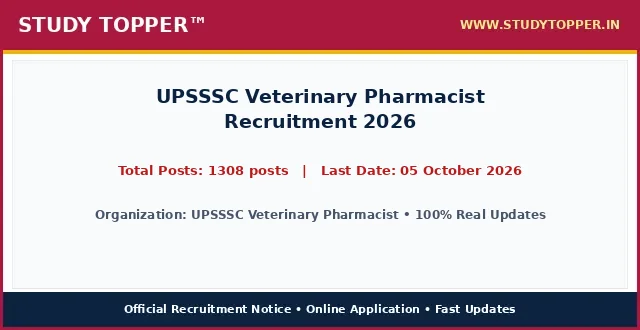
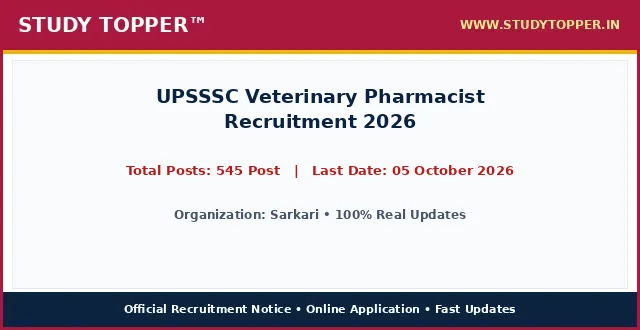
chore(lifecycle): daily auto-sort vacancies and update active dates

Changed region(s): [[0.1875, 0.4848, 0.8125, 0.5455], [0.125, 0.6364, 0.875, 0.6667]]

diff --git a/pages/upsssc-veterinary-pharmacist-2026.html b/pages/upsssc-veterinary-pharmacist-2026.html
@@ -987,12 +987,12 @@ ul.wp-block-latest-posts a:hover {
 <main class="site-main" id="main">
 <div class="gb-container gb-container-b39c368c">
 <h1 class="gb-headline gb-headline-e52a0102 gb-headline-text" style="font-size: 22px; font-weight: 700; color: #0000cd; text-align: left; margin: 8px 0 4px 0; line-height: 1.3; width: 100%; font-family: '-apple-system, BlinkMacSystemFont, 'Segoe UI', Roboto, 'Helvetica Neue', Arial, sans-serif', Times, serif, Hind, sans-serif;">UPSSSC Veterinary Pharmacist Recruitment 2026</h1>
-<div class="gb-container gb-container-659bd175"><p style="color: #cd0808; font-weight: 700; font-size: 15px; margin: 2px 0 7px 0; text-align: left; font-family: '-apple-system, BlinkMacSystemFont, 'Segoe UI', Roboto, 'Helvetica Neue', Arial, sans-serif', Times, serif, Hind, sans-serif;">Post Date: August 21, 2026 07:48 PM</p></div>
-<p class="gb-headline gb-headline-550ae316 short_Details gb-headline-text" style="width: 100%; max-width: 100%; font-size: 16.8px; line-height: 1.55; color: #000000; text-align: justify; text-justify: inter-word; margin: 8px 0 14px 0; display: block; font-family: '-apple-system, BlinkMacSystemFont, 'Segoe UI', Roboto, 'Helvetica Neue', Arial, sans-serif', Times, serif, Hind, sans-serif;"><strong style="color: #0000cd;">UPSSSC Veterinary Pharmacist</strong> has officially published the recruitment notice <strong style="color: #cd0808;">UPSSSC Veterinary Pharmacist Recruitment 2026</strong> under notification number Official Advt 2026. Online applications are invited for 1308 posts across multiple departments and cadre positions. Interested candidates possessing the requisite educational qualifications and falling between 18 Years to 40 Years can complete their online registration before the application deadline of 05 October 2026. Applicants should read the eligibility criteria, category reservation rules, and exam scheme thoroughly before submitting applications.</p>
+<div class="gb-container gb-container-659bd175"><p style="color: #cd0808; font-weight: 700; font-size: 15px; margin: 2px 0 7px 0; text-align: left; font-family: '-apple-system, BlinkMacSystemFont, 'Segoe UI', Roboto, 'Helvetica Neue', Arial, sans-serif', Times, serif, Hind, sans-serif;">Post Date: August 22, 2026 11:55 AM</p></div>
+<p class="gb-headline gb-headline-550ae316 short_Details gb-headline-text" style="width: 100%; max-width: 100%; font-size: 16.8px; line-height: 1.55; color: #000000; text-align: justify; text-justify: inter-word; margin: 8px 0 14px 0; display: block; font-family: '-apple-system, BlinkMacSystemFont, 'Segoe UI', Roboto, 'Helvetica Neue', Arial, sans-serif', Times, serif, Hind, sans-serif;"><strong style="color: #0000cd;">Sarkari</strong> has officially published the recruitment notice <strong style="color: #cd0808;">UPSSSC Veterinary Pharmacist Recruitment 2026</strong> under notification number Official Advt 2026. Online applications are invited for 545 Post across multiple departments and cadre positions. Interested candidates possessing the requisite educational qualifications and falling between 18 Years to 40 Years can complete their online registration before the application deadline of 05 October 2026. Applicants should read the eligibility criteria, category reservation rules, and exam scheme thoroughly before submitting applications.</p>
 <div class="gb-container gb-container-9849916c"><div class="social-buttons-compact" style="display: flex; justify-content: flex-start; align-items: center; gap: 10px; margin: 10px 0 16px 0; width: 100%;"><a class="social-btn-compact wa" href="https://whatsapp.com/channel/0029Va9xyz" rel="noopener" style="background-color: #00d084; color: #ffffff; padding: 10px 18px; border-radius: 4px; text-decoration: none; font-weight: bold; font-size: 15.5px; display: inline-flex; align-items: center; justify-content: center; height: auto;" target="_blank">WhatsApp</a><a class="social-btn-compact tg" href="https://t.me/studytopperofficial" rel="noopener" style="background-color: #0088cc; color: #ffffff; padding: 10px 18px; border-radius: 4px; text-decoration: none; font-weight: bold; font-size: 15.5px; display: inline-flex; align-items: center; justify-content: center; height: auto;" target="_blank">Telegram</a></div></div>
 <div class="gb-container gb-container-f58e6ca1" style="border: 2px solid #5b032f; border-radius: 4px; overflow: hidden; margin: 15px 0 20px 0; background-color: #ffffff; width: 100%; box-sizing: border-box;">
 <h2 class="gb-headline gb-headline-2ca5a791 gb-headline-text" style="font-size: 16px; font-weight: 700; text-align: center; color: #ef0303; line-height: 1.3; padding: 6px 4px; margin: 0; background: #ffffff; font-family: '-apple-system, BlinkMacSystemFont, 'Segoe UI', Roboto, 'Helvetica Neue', Arial, sans-serif', Times, serif, Hind, sans-serif;">UPSSSC Veterinary Pharmacist Recruitment 2026 &ndash; Latest Details &amp; Updates</h2>
-<h3 class="gb-headline gb-headline-7d5f86e8 gb-headline-text" style="font-size: 16px; font-weight: 600; text-align: center; color: #009703; line-height: 1.25; margin: 0; padding: 2px 4px 6px 4px; background: #ffffff; font-family: '-apple-system, BlinkMacSystemFont, 'Segoe UI', Roboto, 'Helvetica Neue', Arial, sans-serif', Times, serif, Hind, sans-serif;">UPSSSC Veterinary Pharmacist : Details &amp; Summary</h3>
+<h3 class="gb-headline gb-headline-7d5f86e8 gb-headline-text" style="font-size: 16px; font-weight: 600; text-align: center; color: #009703; line-height: 1.25; margin: 0; padding: 2px 4px 6px 4px; background: #ffffff; font-family: '-apple-system, BlinkMacSystemFont, 'Segoe UI', Roboto, 'Helvetica Neue', Arial, sans-serif', Times, serif, Hind, sans-serif;">Sarkari : Details &amp; Summary</h3>
 <p class="gb-headline gb-headline-79adf169 gb-headline-text" style="margin: 0 0 6px 0; font-family: '-apple-system, BlinkMacSystemFont, 'Segoe UI', Roboto, 'Helvetica Neue', Arial, sans-serif', Times, serif, Hind, sans-serif; text-align: center; font-size: 18px; font-weight: 700;"><a href="/" style="color: #0000ff; text-decoration: underline;">StudyTopper.in</a></p>
 
 <style id="st-post-boxes-responsive-css">
@@ -1025,7 +1025,7 @@ ul.wp-block-latest-posts a:hover {
     <div style="background-color: #5b032f; color: #ffffff; padding: 8px 10px; font-size: 20px; font-weight: 700; text-align: center; font-family: '-apple-system, BlinkMacSystemFont, 'Segoe UI', Roboto, 'Helvetica Neue', Arial, sans-serif', Times, serif, Hind, sans-serif;">Important Dates</div>
     <div style="padding: 12px 14px; background-color: #ffffff;">
       <ul style="padding-left: 20px; margin: 0; list-style-type: disc; text-align: left; font-size: 14pt; line-height: 1.6; font-family: '-apple-system, BlinkMacSystemFont, 'Segoe UI', Roboto, 'Helvetica Neue', Arial, sans-serif', Times, serif, Hind, sans-serif;">
-        <li><span style="font-size: 14pt;">Online Apply Start Date : <strong>14 September 2026</strong></span></li><li><span style="font-size: 14pt;">Online Apply Last Date : <span style="color: #ff0000;"><strong>05 October 2026</strong></span></span></li><li><span style="font-size: 14pt;">Fee Payment Last Date : <span style="color: #ff0000;"><strong>05 October 2026</strong></span></span></li><li><span style="font-size: 14pt;">Correction Last Date : <span style="color: #ff0000;"><strong>12 October 2026</strong></span></span></li><li><span style="font-size: 14pt;">Exam Date : <strong>Notify Later</strong></span></li><li><span style="font-size: 14pt;">Admit Card Available : <strong>Before Exam</strong></span></li>
+        
       </ul>
     </div>
   </div>
@@ -1034,7 +1034,7 @@ ul.wp-block-latest-posts a:hover {
     <div style="background-color: #5b032f; color: #ffffff; padding: 8px 10px; font-size: 20px; font-weight: 700; text-align: center; font-family: '-apple-system, BlinkMacSystemFont, 'Segoe UI', Roboto, 'Helvetica Neue', Arial, sans-serif', Times, serif, Hind, sans-serif;">Application Fee</div>
     <div style="padding: 12px 14px; background-color: #ffffff;">
       <ul style="padding-left: 20px; margin: 0; list-style-type: disc; text-align: left; font-size: 14pt; line-height: 1.6; font-family: '-apple-system, BlinkMacSystemFont, 'Segoe UI', Roboto, 'Helvetica Neue', Arial, sans-serif', Times, serif, Hind, sans-serif;">
-        <li><span style="font-size: 14pt;">General, OBC, EWS : <strong>₹ 25/-</strong></span></li><li><span style="font-size: 14pt;">SC, ST : <strong>₹ 25/-</strong></span></li><li><span style="font-size: 14pt;">PH Candidates : <strong>₹ 25/-</strong></span></li><li><span style="font-size: 14pt;">Payment Mode (Online) : <strong>You can make the payment using the following methods: Debit Card Credit Card Internet Banking IMPS Cash Card / Mobile Wallet</strong></span></li><li><span style="font-size: 14pt;">Candidates must have UPSSSC PET + Intermediate (10+2) with Biology from the UP Board or an equivalent recognized examination. They must also possess a 2 : <strong>year 3-month Diploma in Veterinary Pharmacy from a recognized university/institution and be registered with the competent council/institution, wherever applicable. Knowledge of Hindi in Devanagari script is also required.</strong></span></li>
+        <li><span style="font-size: 14pt;">Bihar Police BPSSC Sub Inspector SI Prohibition Result 2026 Advt. No. : <strong>03/2026</strong></span></li><li><span style="font-size: 14pt;">UP Scholarship Online Form 2026 : <strong>2027</strong></span></li>
       </ul>
       <div style="margin-top: 10px; font-size: 14pt; line-height: 1.5; color: #000000; border-top: 1px dashed #ccc; padding-top: 8px; font-family: '-apple-system, BlinkMacSystemFont, 'Segoe UI', Roboto, 'Helvetica Neue', Arial, sans-serif', Times, serif, Hind, sans-serif;">
         <strong>Mode of Payment / Access:</strong> Online via Net Banking, Debit Card, Credit Card, UPI or Free Candidate Portal.
@@ -1047,10 +1047,10 @@ ul.wp-block-latest-posts a:hover {
 <div class="st-grid-row" style="display: flex; flex-wrap: wrap; width: 100%; border-top: 2px solid #5b032f; margin: 0; padding: 0; box-sizing: border-box;">
   <!-- Left Col: Age Limits -->
   <div class="st-col-half st-col-border-right" style="box-sizing: border-box; vertical-align: top;">
-    <div style="background-color: #046132; color: #ffffff; padding: 8px 10px; font-size: 17px; font-weight: 700; text-align: center; font-family: '-apple-system, BlinkMacSystemFont, 'Segoe UI', Roboto, 'Helvetica Neue', Arial, sans-serif', Times, serif, Hind, sans-serif;">UPSSSC Veterinary Pharmacist : Age Limits As On 01 August 2026</div>
+    <div style="background-color: #046132; color: #ffffff; padding: 8px 10px; font-size: 17px; font-weight: 700; text-align: center; font-family: '-apple-system, BlinkMacSystemFont, 'Segoe UI', Roboto, 'Helvetica Neue', Arial, sans-serif', Times, serif, Hind, sans-serif;">Sarkari : Age Limits As On 01 August 2026</div>
     <div style="padding: 12px 14px; background-color: #ffffff;">
       <ul style="padding-left: 20px; margin: 0; list-style-type: disc; text-align: left; font-size: 14pt; line-height: 1.6; font-family: '-apple-system, BlinkMacSystemFont, 'Segoe UI', Roboto, 'Helvetica Neue', Arial, sans-serif', Times, serif, Hind, sans-serif;">
-        <li><span style="font-size: 14pt;">For Minimum Age : <strong>18 Years</strong></span></li><li><span style="font-size: 14pt;">For Maximum Age : <strong>40 Years</strong></span></li>
+        
       </ul>
     </div>
   </div>
@@ -1058,7 +1058,7 @@ ul.wp-block-latest-posts a:hover {
   <div class="st-col-half" style="box-sizing: border-box; vertical-align: top;">
     <div style="background-color: #f53c00; color: #ffffff; padding: 8px 10px; font-size: 20px; font-weight: 700; text-align: center; font-family: '-apple-system, BlinkMacSystemFont, 'Segoe UI', Roboto, 'Helvetica Neue', Arial, sans-serif', Times, serif, Hind, sans-serif;">Total Post</div>
     <div style="padding: 24px 10px; background-color: #ffffff; text-align: center;">
-      <span style="font-size: 28px; font-weight: 800; color: #000000; font-family: '-apple-system, BlinkMacSystemFont, 'Segoe UI', Roboto, 'Helvetica Neue', Arial, sans-serif', Times, serif, Hind, sans-serif;">1308 posts</span>
+      <span style="font-size: 28px; font-weight: 800; color: #000000; font-family: '-apple-system, BlinkMacSystemFont, 'Segoe UI', Roboto, 'Helvetica Neue', Arial, sans-serif', Times, serif, Hind, sans-serif;">545 Post</span>
     </div>
   </div>
 </div>
@@ -1070,19 +1070,7 @@ ul.wp-block-latest-posts a:hover {
 <div class="gb-container gb-container-ec1f6e4c">
 <h2 class="gb-headline gb-headline-c7683bda gb-headline-text" style="font-size: 24px; font-weight: 800; text-align: center; color: #ef0303; line-height: 1.35; margin: 20px 0 12px 0; padding: 6px 4px; font-family: '-apple-system, BlinkMacSystemFont, 'Segoe UI', Roboto, 'Helvetica Neue', Arial, sans-serif', Times, serif, Hind, sans-serif;">UPSSSC Veterinary Pharmacist Recruitment 2026 : Key Overview &amp; Matrix</h2>
 <div class="gb-headline gb-headline-60ccea19 gb-headline-text">
-<table style="border-collapse: collapse; width: 100%; height: 150px;">
-<tbody>
-<tr style="height: 25px;">
-<td colspan="2" style="width: 50%; text-align: center; height: 25px;"><span style="background-color: #000080; color: #ffffff; font-size: 14pt;"><strong> UPSSSC Veterinary Pharmacist : Category Wise Vacancy Details </strong></span></td>
-</tr>
-<tr style="height: 25px;">
-<td style="width: 50%; height: 25px; text-align: center;"><span style="font-size: 14pt;"><strong>Category / Particulars</strong></span></td>
-<td style="width: 50%; height: 25px; text-align: center;"><span style="font-size: 14pt;"><strong>Count / Status</strong></span></td>
-</tr>
-<tr><td style="text-align: center;">General</td><td style="text-align: center; font-weight: normal; color: inherit;">576</td></tr><tr><td style="text-align: center;">EWS</td><td style="text-align: center; font-weight: normal; color: inherit;">130</td></tr><tr><td style="text-align: center;">OBC</td><td style="text-align: center; font-weight: normal; color: inherit;">359</td></tr><tr><td style="text-align: center;">SC</td><td style="text-align: center; font-weight: normal; color: inherit;">237</td></tr><tr><td style="text-align: center;">ST</td><td style="text-align: center; font-weight: normal; color: inherit;">06</td></tr>
-</tbody>
-</table>
-<p>&nbsp;</p>
+
 <table style="border-collapse: collapse; width: 100%;">
 <tbody>
 <tr>
@@ -1091,12 +1079,13 @@ ul.wp-block-latest-posts a:hover {
 <th style="background-color: #f53c00; color: #ffffff; padding: 6px 10px; text-align: center; border: 1px solid #d35400; font-size: 15px; font-weight: 700; font-family: '-apple-system, BlinkMacSystemFont, 'Segoe UI', Roboto, 'Helvetica Neue', Arial, sans-serif', Times, serif, Hind, sans-serif;">Eligibility Criteria</th>
 </tr>
 <tr>
-<td style="padding: 8px; border: 1px solid #ddd; font-weight: bold;">UPSSSC Veterinary Pharmacist Recruitment 2026</td>
-<td style="padding: 8px; border: 1px solid #ddd; text-align: center; font-weight: bold;">1308 posts</td>
-<td style="padding: 8px; border: 1px solid #ddd;">Passed 10th / 12th / Diploma / Bachelor Degree in relevant discipline from any recognized Board or University in India as per official notification.</td>
+<td style="padding: 8px; border: 1px solid #ddd; font-weight: bold;">Sarkari Recruitment</td>
+<td style="padding: 8px; border: 1px solid #ddd; text-align: center; font-weight: bold;">545 Post</td>
+<td style="padding: 8px; border: 1px solid #ddd;">Please refer to the official notification linked below for detailed educational qualifications.</td>
 </tr>
 </tbody>
 </table>
+<p>&nbsp;</p>
 <p>&nbsp;</p>
 
 
@@ -1104,10 +1093,10 @@ ul.wp-block-latest-posts a:hover {
 <table style="border-collapse: collapse; width: 100%;">
 <tbody>
 <tr>
-<td style="width: 100%; text-align: center;"><span style="background-color: #000080; color: #ffffff; font-size: 14pt; font-weight: bold; display: block; padding: 6px;"> How to Fill UPSSSC Veterinary Pharmacist Online Application Form </span></td>
+<td style="width: 100%; text-align: center;"><span style="background-color: #000080; color: #ffffff; font-size: 14pt; font-weight: bold; display: block; padding: 6px;"> How to Fill Sarkari Online Application Form </span></td>
 </tr>
 <tr>
-<td style="width: 100%;"><ol style="margin:0; padding-left:18px; text-align: left !important; list-style-position: outside !important"><li style="margin-bottom:6px; text-align: left !important;">Visit official portal for UPSSSC Veterinary Pharmacist Recruitment 2026 via direct application link in important links section below.</li><li style="margin-bottom:6px; text-align: left !important;">Read official recruitment notification carefully to verify category eligibility criteria and age limits.</li><li style="margin-bottom:6px; text-align: left !important;">Complete online candidate registration with valid mobile number and email ID.</li><li style="margin-bottom:6px; text-align: left !important;">Fill educational qualifications, identity details, and permanent address accurately.</li><li style="margin-bottom:6px; text-align: left !important;">Upload scanned photograph and signature in required dimensions.</li><li style="margin-bottom:6px; text-align: left !important;">Resize candidate photograph and signature accurately using StudyTopper Tools resizer at indtool.in.</li><li style="margin-bottom:6px; text-align: left !important;">Pay applicable category application fee online using Debit Card, Credit Card, Net Banking, or UPI.</li><li style="margin-bottom:6px; text-align: left !important;">Review full application form preview thoroughly and submit before 05 October 2026.</li><li style="margin-bottom:6px; text-align: left !important;">Download and print submitted application confirmation page for future reference.</li></ol></td>
+<td style="width: 100%;"><ol style="margin:0; padding-left:18px; text-align: left !important; list-style-position: outside !important"><li style="margin-bottom:6px; text-align: left !important;">Read the official recruitment notification carefully before applying.</li><li style="margin-bottom:6px; text-align: left !important;">Keep all basic documents ready: ID Proof, Address Details, Basic Details.</li><li style="margin-bottom:6px; text-align: left !important;">Ready your scanned documents like Photo, Signature, ID Proof, etc.</li><li style="margin-bottom:6px; text-align: left !important;">Click on the 'Apply Online' link given in the Important Links section below.</li><li style="margin-bottom:6px; text-align: left !important;">Fill out all the columns in the application form accurately.</li><li style="margin-bottom:6px; text-align: left !important;">Pay the required application fee if applicable.</li><li style="margin-bottom:6px; text-align: left !important;">Take a printout of the final submitted application form.</li><li style="margin-bottom:6px; text-align: left !important;">Resize candidate photograph and signature accurately using the <a href="https://indtool.in" rel="noopener" target="_blank"><strong>StudyTopper Tools</strong></a> image resizer at indtool.in.</li></ol></td>
 </tr>
 </tbody>
 </table>
@@ -1115,12 +1104,12 @@ ul.wp-block-latest-posts a:hover {
 <table style="border-collapse: collapse; width: 100%;">
 <tbody>
 <tr>
-<td style="width: 100%; text-align: center;"><span style="background-color: #000080; color: #ffffff; font-size: 14pt;"><strong><span style="color: #ffffff;"> UPSSSC Veterinary Pharmacist Recruitment 2026 : Mode Of Selection </span></strong></span></td>
+<td style="width: 100%; text-align: center;"><span style="background-color: #000080; color: #ffffff; font-size: 14pt;"><strong><span style="color: #ffffff;"> Sarkari Recruitment 2026 : Mode Of Selection </span></strong></span></td>
 </tr>
 <tr>
 <td style="width: 100%;">
 <ul class="wp-block-list" style="text-align: left !important; list-style-position: outside !important">
-<li style="text-align: left !important;"><span style="font-size: 14pt;"><strong>Computer Based Examination (CBE) / Evaluation</strong></span></li><li style="text-align: left !important;"><span style="font-size: 14pt;"><strong>Document Verification</strong></span></li><li style="text-align: left !important;"><span style="font-size: 14pt;"><strong>Final Merit Allotment</strong></span></li>
+<li style="text-align: left !important;"><span style="font-size: 14pt;"><strong>Computer Based Examination (CBE) / Written Exam</strong></span></li><li style="text-align: left !important;"><span style="font-size: 14pt;"><strong>Document Verification</strong></span></li><li style="text-align: left !important;"><span style="font-size: 14pt;"><strong>Medical Examination</strong></span></li>
 </ul>
 </td>
 </tr>
@@ -1158,7 +1147,7 @@ ul.wp-block-latest-posts a:hover {
 <span style="font-size: 19px; font-weight: 800; color: #000000; font-family: '-apple-system, BlinkMacSystemFont, 'Segoe UI', Roboto, 'Helvetica Neue', Arial, sans-serif', Times, serif, Hind, sans-serif;">Apply Online Link</span>
 </td>
 <td style="width: 50%; padding: 14px 16px; text-align: center;">
-<span style="font-size: 20px; font-weight: 800; font-family: '-apple-system, BlinkMacSystemFont, 'Segoe UI', Roboto, 'Helvetica Neue', Arial, sans-serif', Times, serif, Hind, sans-serif;"><a href="https://whatsapp.com/channel/0029VaAbQf01NCrYADMLt00L" aria-label="Click Here for Apply Online Link - UPSSSC Veterinary Pharmacist Recruitment 2026" rel="noopener noreferrer" style="color: #0000ef; font-weight: 800; text-decoration: none;" target="_blank">Click Here</a></span>
+<span style="font-size: 20px; font-weight: 800; font-family: '-apple-system, BlinkMacSystemFont, 'Segoe UI', Roboto, 'Helvetica Neue', Arial, sans-serif', Times, serif, Hind, sans-serif;"><a href="https://www.sarkariresult.com/2026/mpesb-group2-subgroup-4-aug26/" aria-label="Click Here for Apply Online Link - UPSSSC Veterinary Pharmacist Recruitment 2026" rel="noopener noreferrer" style="color: #0000ef; font-weight: 800; text-decoration: none;" target="_blank">Click Here</a></span>
 </td>
 </tr>
 <tr style="border-bottom: 1px solid #000000; background-color: #fff37a;">
@@ -1166,23 +1155,31 @@ ul.wp-block-latest-posts a:hover {
 <span style="font-size: 19px; font-weight: 800; color: #000000; font-family: '-apple-system, BlinkMacSystemFont, 'Segoe UI', Roboto, 'Helvetica Neue', Arial, sans-serif', Times, serif, Hind, sans-serif;">Check Official Notification</span>
 </td>
 <td style="width: 50%; padding: 14px 16px; text-align: center;">
-<span style="font-size: 20px; font-weight: 800; font-family: '-apple-system, BlinkMacSystemFont, 'Segoe UI', Roboto, 'Helvetica Neue', Arial, sans-serif', Times, serif, Hind, sans-serif;"><a href="https://upsssc.gov.in/ViewPdf.aspx?CSZTbXFLQRz/5MZaLnlokmwT0pv9K4wjRylGSlUjpqw=" aria-label="Click Here for Check Official Notification - UPSSSC Veterinary Pharmacist Recruitment 2026" rel="noopener noreferrer" style="color: #0000ef; font-weight: 800; text-decoration: none;" target="_blank">Click Here</a></span>
+<span style="font-size: 20px; font-weight: 800; font-family: '-apple-system, BlinkMacSystemFont, 'Segoe UI', Roboto, 'Helvetica Neue', Arial, sans-serif', Times, serif, Hind, sans-serif;"><a href="" aria-label="Click Here for Check Official Notification - UPSSSC Veterinary Pharmacist Recruitment 2026" rel="noopener noreferrer" style="color: #0000ef; font-weight: 800; text-decoration: none;" target="_blank">Click Here</a></span>
 </td>
 </tr>
 <tr style="border-bottom: 1px solid #000000; background-color: #fff37a;">
 <td style="width: 50%; padding: 14px 16px; border-right: 1px solid #000000; text-align: center;">
-<span style="font-size: 19px; font-weight: 800; color: #000000; font-family: '-apple-system, BlinkMacSystemFont, 'Segoe UI', Roboto, 'Helvetica Neue', Arial, sans-serif', Times, serif, Hind, sans-serif;">UPSSSC Official Website</span>
+<span style="font-size: 19px; font-weight: 800; color: #000000; font-family: '-apple-system, BlinkMacSystemFont, 'Segoe UI', Roboto, 'Helvetica Neue', Arial, sans-serif', Times, serif, Hind, sans-serif;">Photo / Sign Resizer Tool</span>
 </td>
 <td style="width: 50%; padding: 14px 16px; text-align: center;">
-<span style="font-size: 20px; font-weight: 800; font-family: '-apple-system, BlinkMacSystemFont, 'Segoe UI', Roboto, 'Helvetica Neue', Arial, sans-serif', Times, serif, Hind, sans-serif;"><a href="http://upsssc.gov.in/Default.aspx" aria-label="Click Here for UPSSSC Official Website - UPSSSC Veterinary Pharmacist Recruitment 2026" rel="noopener noreferrer" style="color: #0000ef; font-weight: 800; text-decoration: none;" target="_blank">Click Here</a></span>
+<span style="font-size: 20px; font-weight: 800; font-family: '-apple-system, BlinkMacSystemFont, 'Segoe UI', Roboto, 'Helvetica Neue', Arial, sans-serif', Times, serif, Hind, sans-serif;"><a href="https://indtool.in" aria-label="Click Here for Photo / Sign Resizer Tool - UPSSSC Veterinary Pharmacist Recruitment 2026" rel="noopener noreferrer" style="color: #0000ef; font-weight: 800; text-decoration: none;" target="_blank">Click Here</a></span>
 </td>
 </tr>
-<tr style=" background-color: #fff37a;">
+<tr style="border-bottom: 1px solid #000000; background-color: #fff37a;">
 <td style="width: 50%; padding: 14px 16px; border-right: 1px solid #000000; text-align: center;">
 <span style="font-size: 19px; font-weight: 800; color: #000000; font-family: '-apple-system, BlinkMacSystemFont, 'Segoe UI', Roboto, 'Helvetica Neue', Arial, sans-serif', Times, serif, Hind, sans-serif;">Check Sarkari Result</span>
 </td>
 <td style="width: 50%; padding: 14px 16px; text-align: center;">
 <span style="font-size: 20px; font-weight: 800; font-family: '-apple-system, BlinkMacSystemFont, 'Segoe UI', Roboto, 'Helvetica Neue', Arial, sans-serif', Times, serif, Hind, sans-serif;"><a href="/" aria-label="Click Here for Check Sarkari Result - UPSSSC Veterinary Pharmacist Recruitment 2026" rel="noopener noreferrer" style="color: #0000ef; font-weight: 800; text-decoration: none;" >Click Here</a></span>
+</td>
+</tr>
+<tr style=" background-color: #fff37a;">
+<td style="width: 50%; padding: 14px 16px; border-right: 1px solid #000000; text-align: center;">
+<span style="font-size: 19px; font-weight: 800; color: #000000; font-family: '-apple-system, BlinkMacSystemFont, 'Segoe UI', Roboto, 'Helvetica Neue', Arial, sans-serif', Times, serif, Hind, sans-serif;">Sarkari Website</span>
+</td>
+<td style="width: 50%; padding: 14px 16px; text-align: center;">
+<span style="font-size: 20px; font-weight: 800; font-family: '-apple-system, BlinkMacSystemFont, 'Segoe UI', Roboto, 'Helvetica Neue', Arial, sans-serif', Times, serif, Hind, sans-serif;"><a href="" aria-label="Click Here for Sarkari Website - UPSSSC Veterinary Pharmacist Recruitment 2026" rel="noopener noreferrer" style="color: #0000ef; font-weight: 800; text-decoration: none;" target="_blank">Click Here</a></span>
 </td>
 </tr>
 </tbody>
@@ -1198,7 +1195,7 @@ ul.wp-block-latest-posts a:hover {
 <p style="margin: 0 0 16px 0; color: #333333; line-height: 1.6;">Ans. The last date for online submission of application is 05 October 2026.</p><p style="margin: 0 0 4px 0;"><strong style="color: #000080;">Q2. What is the age limit for UPSSSC Veterinary Pharmacist Recruitment 2026?</strong></p>
 <p style="margin: 0 0 16px 0; color: #333333; line-height: 1.6;">Ans. Candidate age should generally be between 18 Years and 40 Years as on 01 August 2026. Age relaxation is applicable per rules.</p><p style="margin: 0 0 4px 0;"><strong style="color: #000080;">Q3. What is the application fee for UPSSSC Veterinary Pharmacist Recruitment 2026?</strong></p>
 <p style="margin: 0 0 16px 0; color: #333333; line-height: 1.6;">Ans. Application fee varies by category (e.g., General/OBC: Rs. 100/-, SC/ST/PwD: Exempted).</p><p style="margin: 0 0 4px 0;"><strong style="color: #000080;">Q4. How many total posts are available in UPSSSC Veterinary Pharmacist Recruitment 2026?</strong></p>
-<p style="margin: 0 0 16px 0; color: #333333; line-height: 1.6;">Ans. A total of 1308 posts have been officially announced for this recruitment drive.</p><p style="margin: 0 0 4px 0;"><strong style="color: #000080;">Q5. How can I apply online for UPSSSC Veterinary Pharmacist Recruitment 2026?</strong></p>
+<p style="margin: 0 0 16px 0; color: #333333; line-height: 1.6;">Ans. A total of 545 Post have been officially announced for this recruitment drive.</p><p style="margin: 0 0 4px 0;"><strong style="color: #000080;">Q5. How can I apply online for UPSSSC Veterinary Pharmacist Recruitment 2026?</strong></p>
 <p style="margin: 0 0 0 0; color: #333333; line-height: 1.6;">Ans. Eligible candidates can click the 'Apply Online' link in the Important Links table, register, fill details, resize photo/signature via indtool.in, and submit before 05 October 2026.</p>
   </div>
 </div>
